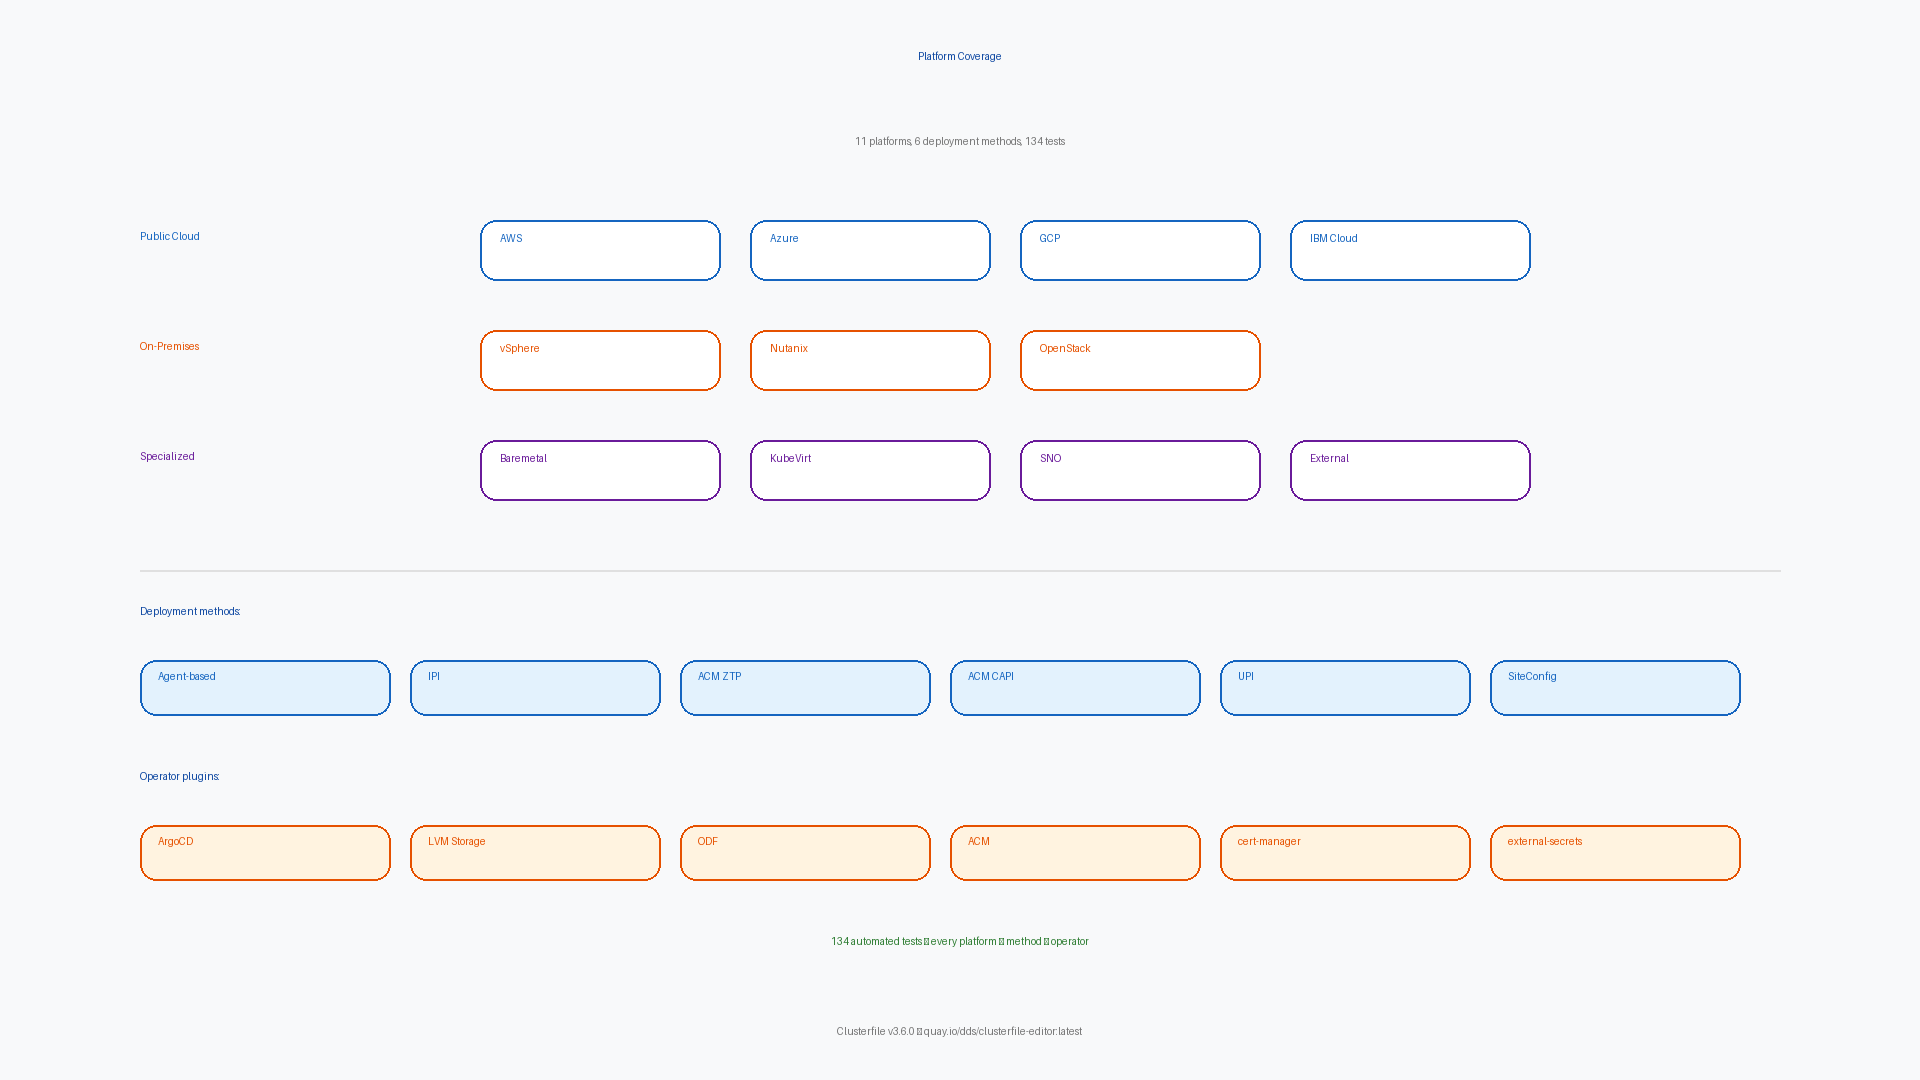
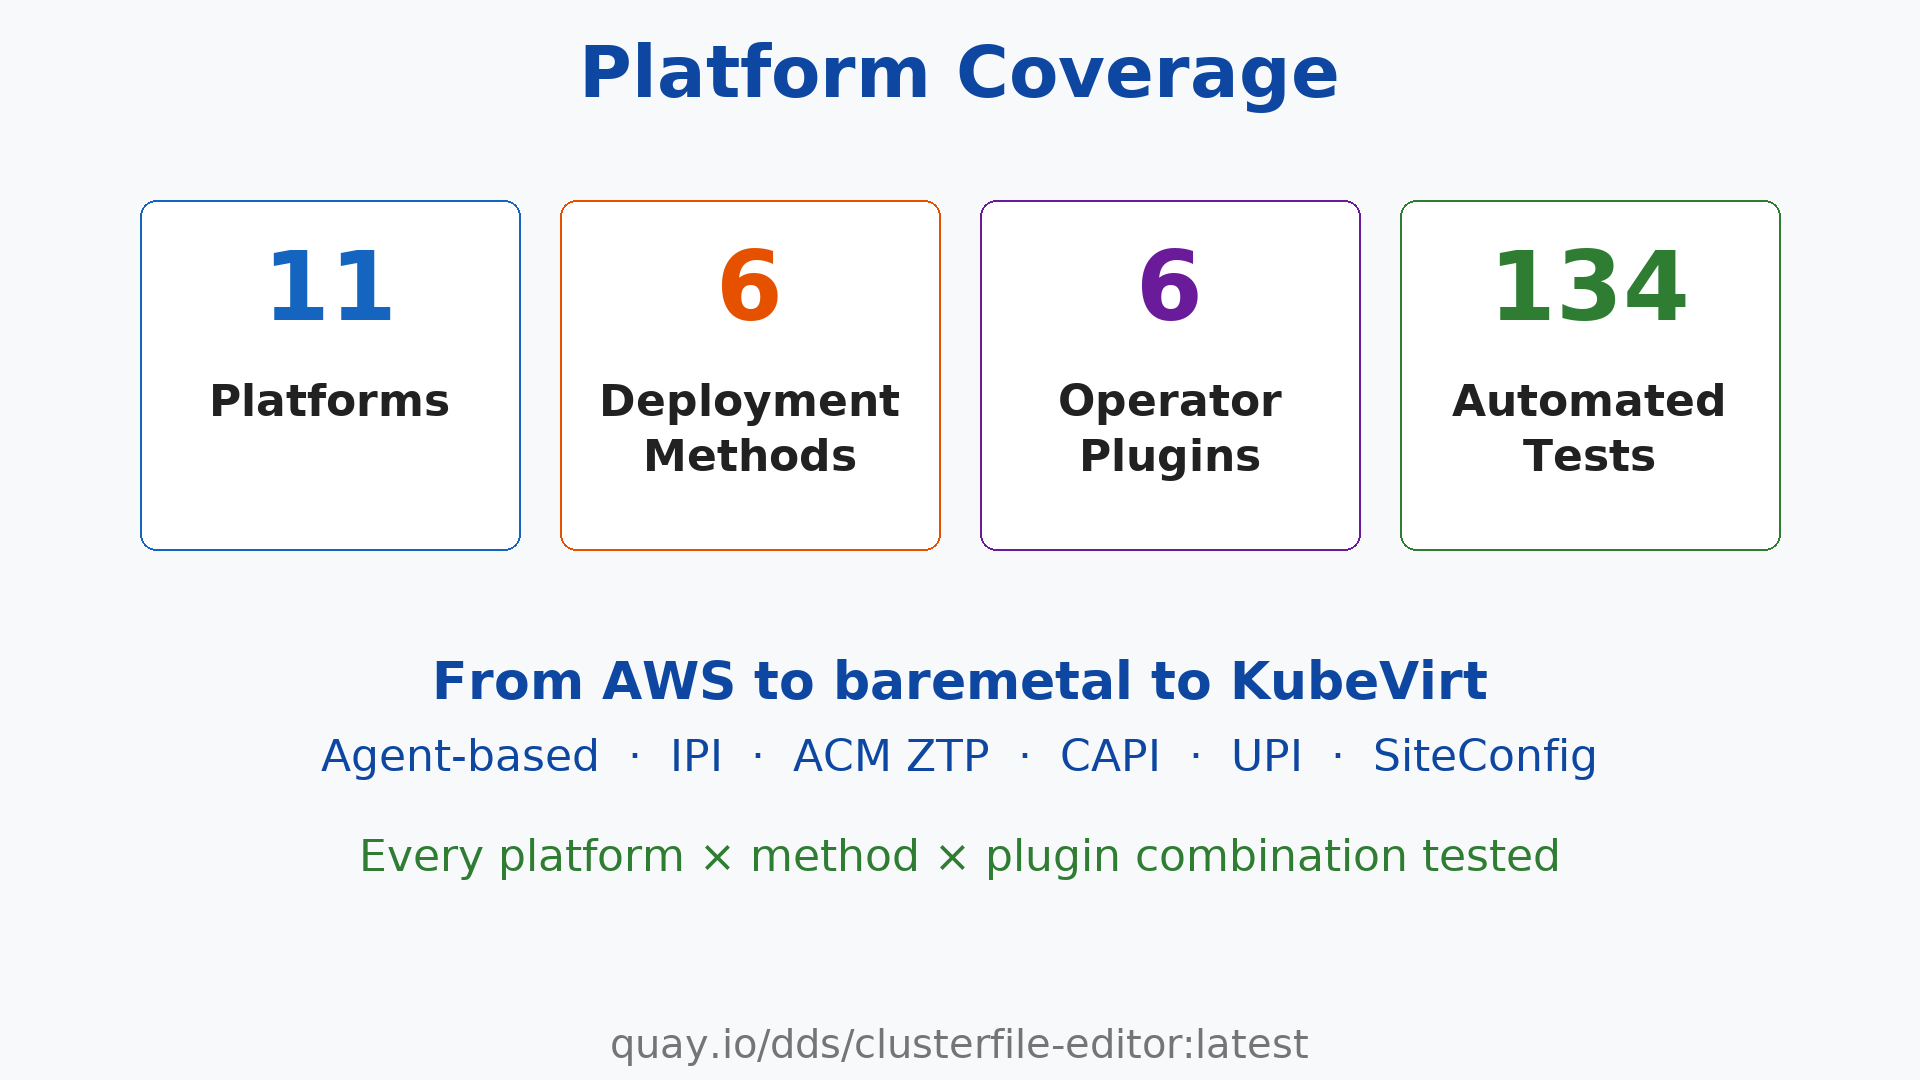
Fix slide rendering: card centering, DejaVu fonts, install script, cleanup
- Add draw_centred_in() for card-bounded text (fixes overlapping text)
- Add DejaVu Sans to font discovery (fixes missing arrow glyphs)
- Add install-deps.sh for one-step dependency setup
- Remove stale slides and old video files
- Add collateral-is-not-a-version-change rule to CLAUDE.md
- Clean changelog: remove collateral-only version entries

diff --git a/docs/collateral/video/generate-video.py b/docs/collateral/video/generate-video.py
@@ -69,10 +69,11 @@ _font_cache = {}
 def _find_font():
     """Find a usable sans-serif font on the system."""
     candidates = [
-        "/usr/share/fonts/redhat-vf/RedHatText[wght].ttf",
+        os.path.expanduser("~/.local/share/fonts/DejaVuSans.ttf"),
         "/usr/share/fonts/truetype/dejavu/DejaVuSans.ttf",
         "/usr/share/fonts/dejavu-sans-fonts/DejaVuSans.ttf",
         "/usr/share/fonts/TTF/DejaVuSans.ttf",
+        "/usr/share/fonts/redhat-vf/RedHatText[wght].ttf",
         "/usr/share/fonts/truetype/liberation/LiberationSans-Regular.ttf",
         "/usr/share/fonts/google-noto/NotoSans-Regular.ttf",
     ]
@@ -84,10 +85,11 @@ def _find_font():
 def _find_bold_font():
     """Find a usable bold sans-serif font on the system."""
     candidates = [
-        "/usr/share/fonts/redhat-vf/RedHatText[wght].ttf",
+        os.path.expanduser("~/.local/share/fonts/DejaVuSans-Bold.ttf"),
         "/usr/share/fonts/truetype/dejavu/DejaVuSans-Bold.ttf",
         "/usr/share/fonts/dejavu-sans-fonts/DejaVuSans-Bold.ttf",
         "/usr/share/fonts/TTF/DejaVuSans-Bold.ttf",
+        "/usr/share/fonts/redhat-vf/RedHatText[wght].ttf",
         "/usr/share/fonts/truetype/liberation/LiberationSans-Bold.ttf",
         "/usr/share/fonts/google-noto/NotoSans-Bold.ttf",
     ]
@@ -122,6 +124,12 @@ def draw_centred(draw, y, text, fnt, fill=BLACK):
     bbox = draw.textbbox((0, 0), text, font=fnt)
     tw = bbox[2] - bbox[0]
     draw.text(((W - tw) // 2, y), text, font=fnt, fill=fill)
+
+def draw_centred_in(draw, cx, y, cw, text, fnt, fill=BLACK):
+    """Centre text within a horizontal region [cx, cx+cw]."""
+    bbox = draw.textbbox((0, 0), text, font=fnt)
+    tw = bbox[2] - bbox[0]
+    draw.text((cx + (cw - tw) // 2, y), text, font=fnt, fill=fill)
 
 def draw_left(draw, x, y, text, fnt, fill=BLACK):
     draw.text((x, y), text, font=fnt, fill=fill)
@@ -199,9 +207,9 @@ def slide_version_control():
         x = sx + i * (card_w + gap)
         y = 260
         draw_card(draw, x, y, card_w, card_h, WHITE, colour)
-        draw_centred(draw, y + 30, title, font(44, bold=True), colour)
+        draw_centred_in(draw, x, y + 30, card_w, title, font(44, bold=True), colour)
         for k, line in enumerate(detail.split("\n")):
-            draw_centred(draw, y + 120 + k * 55, line, font(44), BLACK)
+            draw_centred_in(draw, x, y + 120 + k * 55, card_w, line, font(44), BLACK)
 
     # Bottom message
     draw_centred(draw, 640, "267 input lines \u2192 2,579 output lines", font(56, bold=True), BG_DARK)
@@ -237,7 +245,7 @@ def slide_extensibility():
         y = 480
         draw.line([(W // 2, cy + ch), (x + card_w // 2, y)], fill=colour, width=2)
         draw_card(draw, x, y, card_w, 90, WHITE, colour)
-        draw_centred(draw, y + 18, name, font(44, bold=True), colour)
+        draw_centred_in(draw, x, y + 18, card_w, name, font(44, bold=True), colour)
 
     # Installer agnostic message
     draw_centred(draw, 650, "Day-1: installer agnostic", font(56, bold=True), BG_DARK)
@@ -299,8 +307,8 @@ def slide_numbers():
         x = sx + i * (card_w + gap)
         y = 240
         draw_card(draw, x, y, card_w, card_h, bg, colour)
-        draw_centred(draw, y + 30, big, font(96, bold=True), colour)
-        draw_centred(draw, y + 170, label, font(48, bold=True), BLACK)
+        draw_centred_in(draw, x, y + 30, card_w, big, font(96, bold=True), colour)
+        draw_centred_in(draw, x, y + 170, card_w, label, font(48, bold=True), BLACK)
 
     # Bottom summary
     draw_centred(draw, 650, "267 lines in  \u2192  2,579 lines out across 11 templates", font(48, bold=True), BG_DARK)
@@ -328,10 +336,10 @@ def slide_time_cost():
         x = sx + i * (card_w + gap)
         y = 240
         draw_card(draw, x, y, card_w, card_h, WHITE, colour)
-        draw_centred(draw, y + 30, big, font(88, bold=True), colour)
-        draw_centred(draw, y + 150, label, font(44, bold=True), BLACK)
+        draw_centred_in(draw, x, y + 30, card_w, big, font(88, bold=True), colour)
+        draw_centred_in(draw, x, y + 150, card_w, label, font(44, bold=True), BLACK)
         for k, line in enumerate(detail.split("\n")):
-            draw_centred(draw, y + 260 + k * 55, line, font(44), GREY)
+            draw_centred_in(draw, x, y + 260 + k * 55, card_w, line, font(44), GREY)
 
     draw_centred(draw, 760, "Portability saves real time and money", font(52, bold=True), GREEN)
     draw_footer(draw)
@@ -357,9 +365,9 @@ def slide_platform_coverage():
         x = sx + i * (card_w + gap)
         y = 200
         draw_card(draw, x, y, card_w, card_h, WHITE, colour)
-        draw_centred(draw, y + 30, num, font(96, bold=True), colour)
+        draw_centred_in(draw, x, y + 30, card_w, num, font(96, bold=True), colour)
         for k, line in enumerate(label.split("\n")):
-            draw_centred(draw, y + 175 + k * 55, line, font(44, bold=True), BLACK)
+            draw_centred_in(draw, x, y + 175 + k * 55, card_w, line, font(44, bold=True), BLACK)
 
     # Bottom: key message
     draw_centred(draw, 650, "From AWS to baremetal to KubeVirt", font(52, bold=True), BG_DARK)

diff --git a/CHANGELOG.md b/CHANGELOG.md
@@ -2,26 +2,6 @@
 
 All notable changes to this project are documented in this file.
 
-## Unreleased
-- **fix-font-rendering** — Fix silent font fallback: add Red Hat variable fonts to discovery, pass size to `load_default()` fallback, add startup warning for missing fonts (2026-02-18)
-
-## v3.7.1 (2026-02-18)
-- **video-regenerate** — Regenerate full video pipeline: 17 slides, TTS audio, 3.8 min MP4 with bigger fonts, CLI demo, click indicators, fixed KubeVirt pronunciation (2026-02-18)
-
-## v3.7.0 (2026-02-18)
-- **video-font-sizes** — Scale all video slide fonts to minimum 28px, simplify crowded layouts (fewer boxes/bars/steps), add cursor + click ripple animation on demo slides 06-11 (2026-02-18)
-- **video-cli-demo** — Add CLI demo slide (terminal-style process.py usage), fix KubeVirt TTS pronunciation (2026-02-18)
-
-## v3.6.0 (2026-02-17)
-- **collateral-video** — Add narrated video presentation: 16-slide MP4 with real editor screenshots (Playwright), TTS narration (edge-tts), Pillow slides, moviepy assembly; 3.6 minutes, 1920x1080 (2026-02-17)
-
-## v3.5.0 (2026-02-17)
-- **collateral-infographic-fix** — Fix Time & Cost table layout: proper grid columns, shorter labels, alternating row backgrounds, no text cutoff (2026-02-17)
-- **collateral-infographic** — Add SVG infographic with field counts, line expansion charts, cross-platform comparison, time/cost analysis (92% savings), and expansion ratio visuals (2026-02-17)
-- **collateral-business-value** — Add business value and ROI presentation: 10.2x output expansion, 80-90% time savings, Red Hat strategic value analysis (2026-02-17)
-- **collateral-file-externalization** — Highlight file externalization (pull secrets, SSH keys, certs, credentials are file paths loaded at render time) and correct ESO role (day-2 on-cluster operator, not part of rendering) across all collateral; move collateral into `docs/collateral/` (2026-02-17)
-- **collateral-kit** — Add executive one-pager, 11-slide presentation deck, 5-minute demo script, SVG architecture diagram, and tool comparison matrix (2026-02-17)
-
 ## v3.3.0 (2026-02-16)
 - **eso-vault-config** — Add Vault ClusterSecretStore config template to ESO plugin with Kubernetes auth defaults; change cert-manager secretStore default to vault; enable ESO on all example clusterfiles
 

diff --git a/CLAUDE.md b/CLAUDE.md
@@ -49,6 +49,7 @@
   3. A short summary of what was done (changes, commits, tags, or explanation given)
 
   Do this for **every** prompt — not just feature work. Includes: questions, "commit", "ship it", "stop", corrections, config discussions. This is the audit trail of the entire session.
+- **Collateral is not a version change.** Changes under `docs/collateral/` (videos, slides, presentations, infographics, install scripts) do NOT trigger version bumps, changelog entries, or release processes. Collateral is documentation/marketing material, not application functionality. Commit and tag normally, but skip version sync and changelog.
 - **Maintain a changelog.** When committing a feature or notable fix, append an entry to `CHANGELOG.md` under an `## Unreleased` section. Each entry should include the tag name, a one-line summary, and the date. Move entries under a version heading when a release tag is created.
 - **Keep versions in sync.** On release, update **all five** version locations together:
   1. `apps/editor/APP_VERSION` — the single source of truth for the app version
